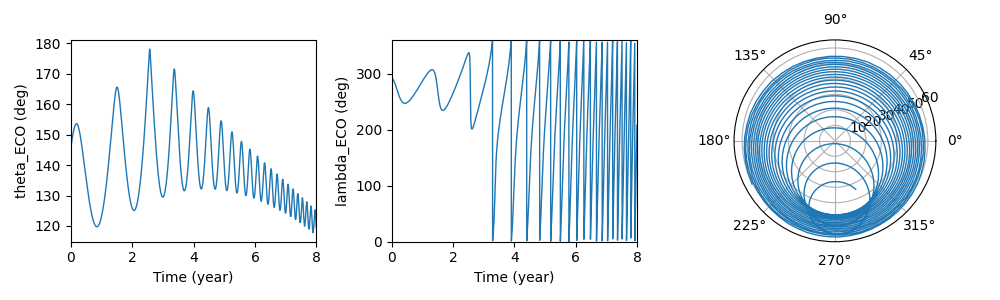
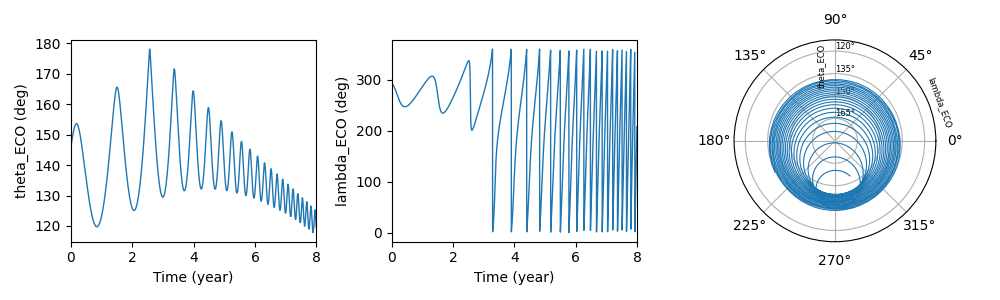
Changements axes figure2

diff --git a/visualisation.py b/visualisation.py
@@ -162,10 +162,19 @@ plt.plot(times, angular_velocity_ECO_lambda,linewidth=1.)
 plt.xlabel('Time (year)')
 plt.ylabel('lambda_ECO (deg)')
 plt.xlim(0,8)
-plt.ylim(0,360)
+# plt.ylim(0,360)
 
-plt.subplot(133, projection='polar')
-plt.polar([ra*np.pi/180 for ra in angular_velocity_ECO_lambda],[180-dec for dec in angular_velocity_ECO_theta],linewidth=1.)
+ax = plt.subplot(133, projection='polar')
+ax.plot([ra*np.pi/180 for ra in angular_velocity_ECO_lambda],[180-dec for dec in angular_velocity_ECO_theta],linewidth=0.8)
+ax.set_rlabel_position(90)
+ax.set_rlim(0,90)
+ax.text(np.radians(90+10),ax.get_rmax()*3./4.,'theta_ECO',rotation=90,ha='center',va='center',size=6)
+ax.text(np.radians(20),ax.get_rmax()*1.1,'lambda_ECO',rotation=-70,ha='center',va='center',size=6)
+ax.set_yticklabels(['165°','150°','135°','120°','105°'],size=6)
+
+# plt.polar([ra*np.pi/180 for ra in angular_velocity_ECO_lambda],[180-dec for dec in angular_velocity_ECO_theta],linewidth=1.)
+# plt.xlabel('lambda_ECO')
+# plt.ylabel('theta_ECO')
 
 plt.tight_layout()
 plt.savefig('./figures/LAGEOS-2_orbital.png')
